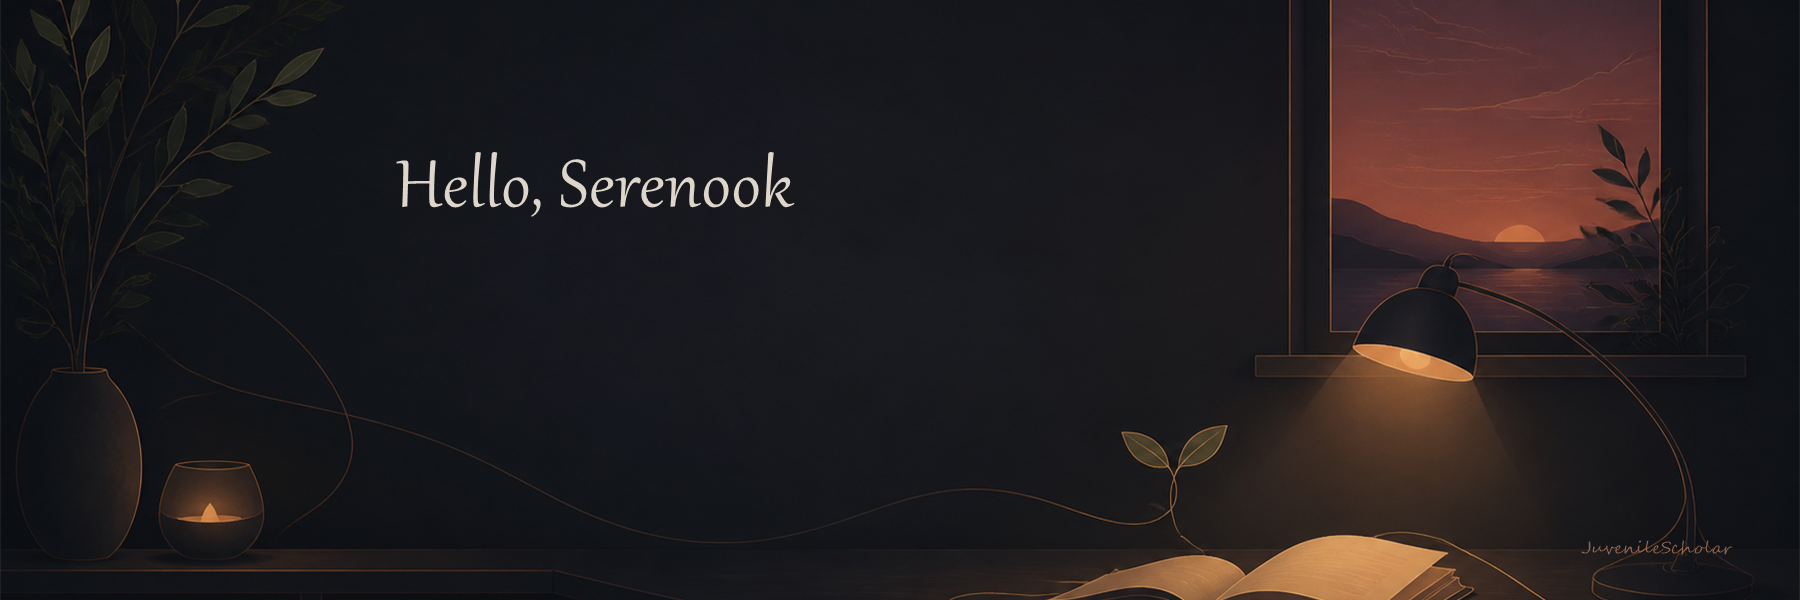
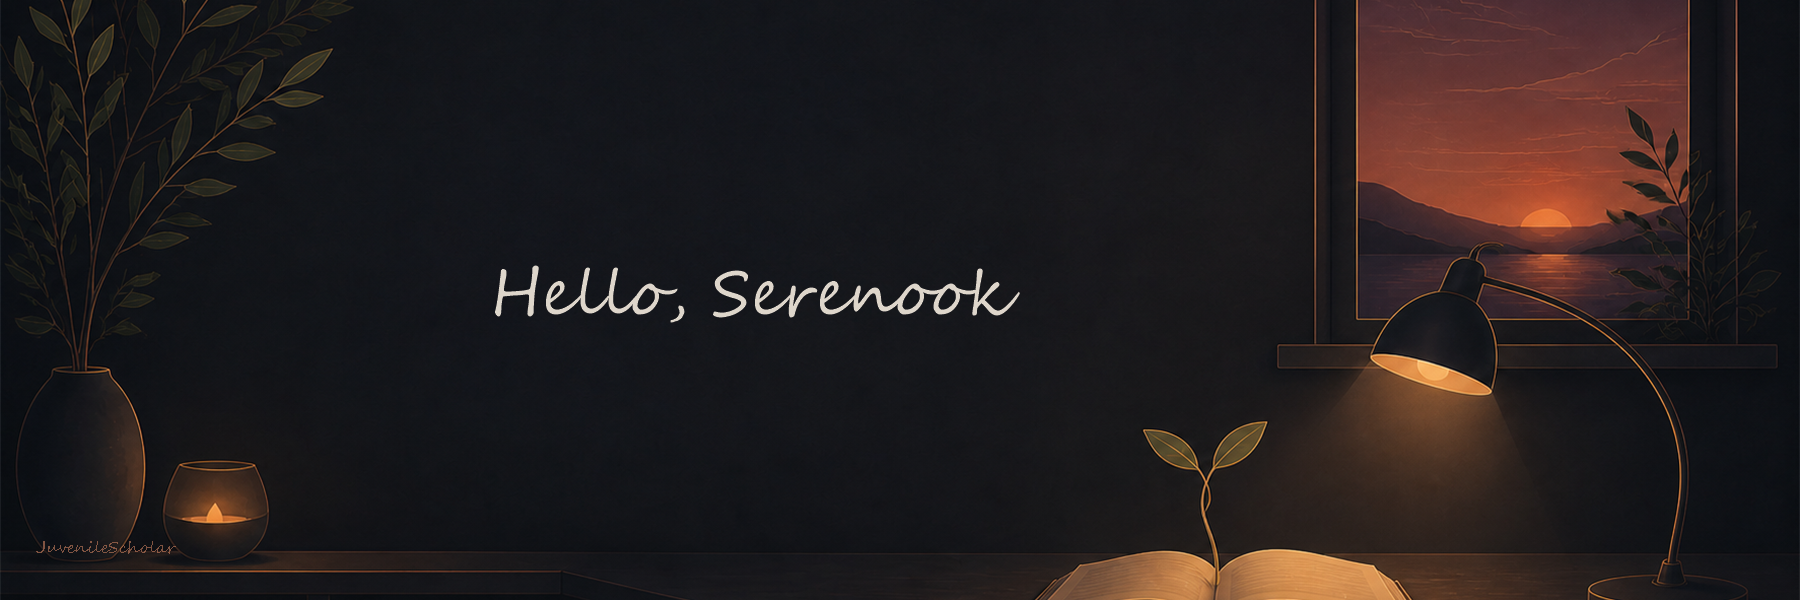
前端优化

diff --git a/README.md b/README.md
@@ -14,6 +14,7 @@
 - 在线网址统一使用本机 Microsoft Edge 的线稿图标与低对比度标记
 - 以 650 毫秒间隔依次启动当前工作台中的全部入口，避免瞬间并发
 - 每 10 秒按完整路径轻量检测本地 `.exe` 运行状态，已运行应用不再重复启动
+- 运行中的本地 `.exe` 卡片会按同一检测周期显示动态 CPU 占用率；网址与文档不参与采样
 - 首次运行状态检测期间锁定“全开”，关闭工作台后不保留后台检测
 - 可将暂时不用的应用移入默认折叠的睡眠区，并随时苏醒
 - 新增入口可通过独立睡眠开关决定保存到打开区或睡眠区
@@ -41,7 +42,7 @@
 - CPU 在完成启动与运行状态检查后基本保持空闲；本次连续采样中主进程累计 CPU 时间稳定在约 `0.05` 秒。
 - 日常运行建议预留约 `500 MB` 可用内存与单个空闲 CPU 核心。批量打开的其他应用不属于 Serenook 自身占用，并会以 650 毫秒间隔依次启动。
 
-这里的“峰值”是本次实测峰值，不是覆盖所有机器的硬性上限；正式发布前可以继续在更多 Windows 设备上补充基准。
+这里的“峰值”是本次实测峰值，但不覆盖所有机器的硬性上限。
 
 ## 开发环境
 
